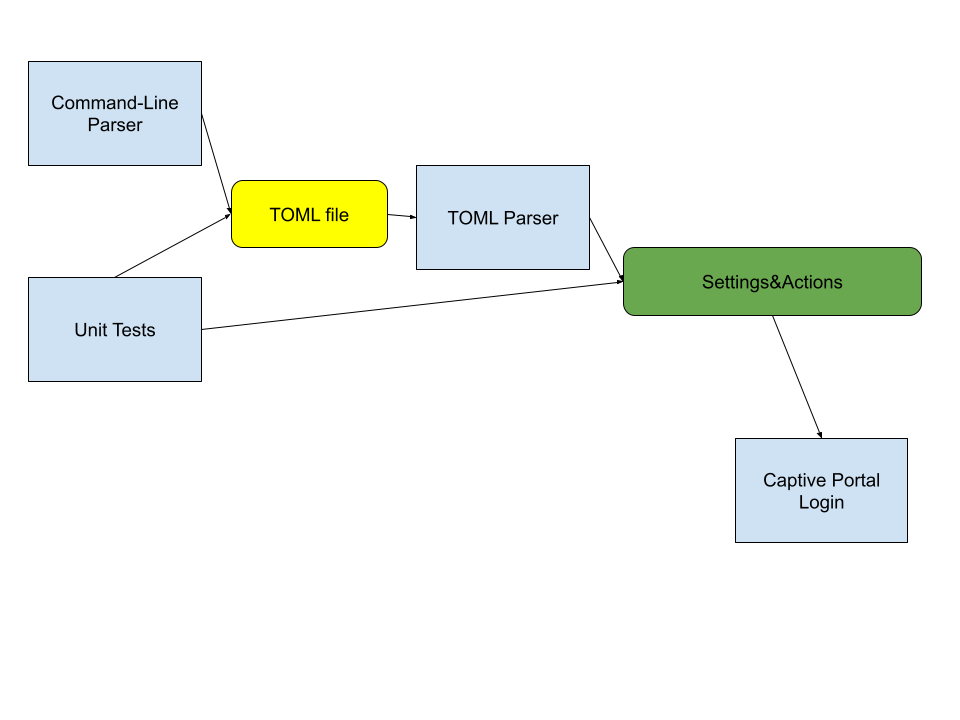
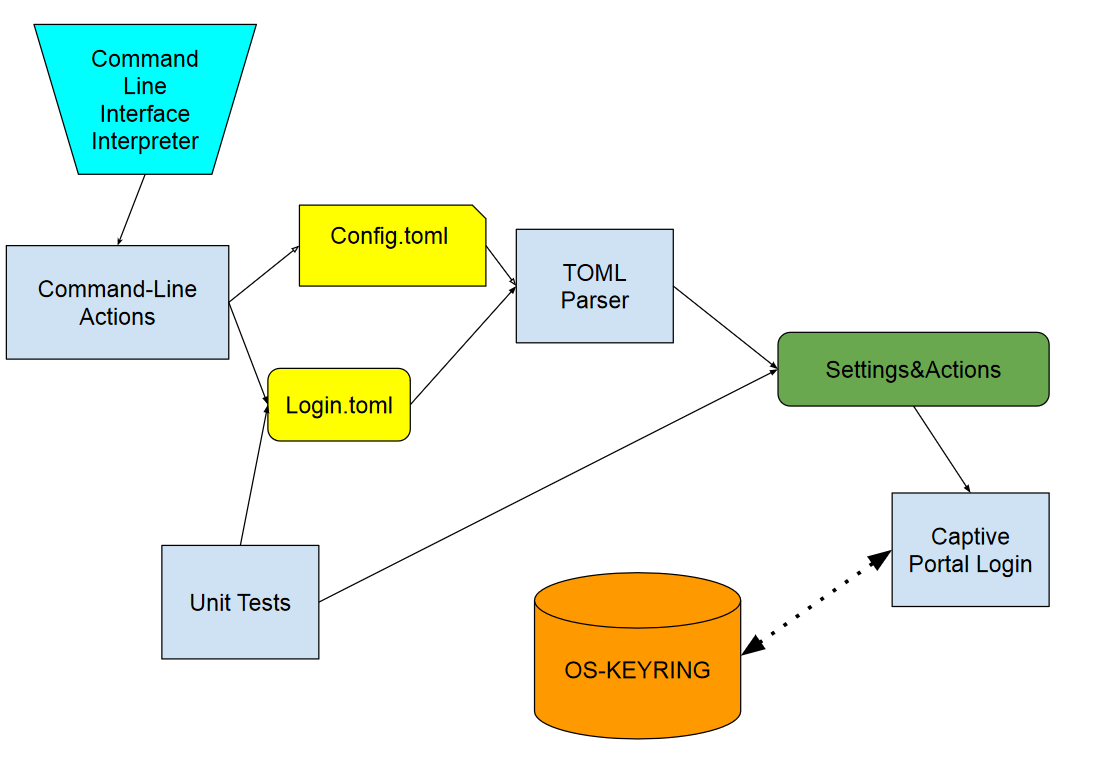
Changed the Output from Config from a dict to a NamedTuple in order to fit in with the rest of the parsers. New example file, that shows the currently planned config options. Changed the Architecture image to better reflect the plan. changed parsertest to reflect the changes from the former.

diff --git a/Captr/parser.py b/Captr/parser.py
@@ -1,14 +1,65 @@
 #Parses TOML files into digestible python variables and objects
 import tomllib as toml
-from typing import Optional, NamedTuple, Any
+from typing import Optional, NamedTuple, Any, Type, TypeVar
+
+#reads toml files allows for setting the given directory of the aforementioned toml file as well
+def TOMLRead(directory: str) -> dict:
+    """
+    Simple function that Opens Toml Files saves them to a variable and then returns whats in them
+    """
+    with open(directory, "rb") as stream:
+            try:
+                tml=toml.load(stream)
+            except UnicodeDecodeError as err:
+                print("ERROR: Your TOML File Appears to be corrupted or your pointing to the wrong file")
+                raise err
+            except toml.TOMLDecodeError:
+                raise toml.TOMLDecodeError("Your TOML File Appears to have Formatting Errors")
+            except FileNotFoundError:
+                raise FileNotFoundError("Cannot Find the File, Ensure the file path is correct and the file exits")
+    return tml
+
+#TODO: Replace with the new syntax once supported by mypy
+T=TypeVar("T", bound="Config")#Manual Type needed for Singleton 
 
 #Singleton Only one config can exist
 class Config():
+    """
+    Creates a Singleton object for the config file as only one config file can exist. 
+    Returns the config as a dictionary.
+    """
     _instance = None
-    def __new__(cls):
+    
+    def __new__(cls: Type[T], filepath: str) -> T:
+        """Enforces the Singleton Design Pattern"""
         if cls._instance is None:
             cls._instance= super(Config, cls).__new__(cls)
+        return cls._instance
     
+    def __init__(self, filepath: str="") -> None:
+        self.filepath = str(filepath)
+        self.tml=self.ConfParse()
+
+    class Ingest(NamedTuple):
+        """
+        Subclass of Config that defines a NamedTuple which is used for returning the values for the config.
+        """
+        logging: bool
+        safetyPrompt: bool
+        loginFilesDir: str #forward reference
+
+    def ConfParse(self) -> Ingest:
+        """
+        Ingests the configuration file and stores the variables, it is then output as a Ingest Named tuple. 
+        """
+        ConfigVars=["LoginFilesDir", "PromptForSafety", "Logging"]
+        tml=TOMLRead(self.filepath)
+        if all(x in ConfigVars for x in tml):
+            self.tml= self.Ingest(logging=tml["Logging"], loginFilesDir=tml["LoginFilesDir"], safetyPrompt=tml["PromptForSafety"])
+            return(self.tml)
+        else:
+            raise ValueError("Error, your CONFIG is MALFORMED")
+            
 
 
 class Action(NamedTuple):
@@ -33,7 +84,7 @@ class Action(NamedTuple):
 
 
 
-class TOMLparser():
+class LOGINparser():
     """
     TOML file parser that translates the content of a login-file into a easily digestible NamedTuple 
     This parser is specifically designed to interpret TOML files used for configuration into actionable objects based on the  
@@ -79,19 +130,19 @@ class TOMLparser():
     """
 
  
-    class LoginIngest(NamedTuple):
+    class Ingest(NamedTuple):
         """
         Subclass of TOMLparser that defines a NamedTuple which is used for returning the value of the class
         """
         Network: dict
-        Actions: list["TOMLparser.Action"] #forward reference
+        Actions: list[Action] #forward reference
 
 
 
     def __init__(self, filepath: str="") -> None:
         self.filepath = str(filepath)
         self.export = Optional[Any]
-        self.ingest=self._tomlparse()
+        self.ingest=self._loginparse()
     
     def __str__(self) -> str:
        return(
@@ -159,24 +210,14 @@ class TOMLparser():
             return(self.identifytest(action, self.t_identify_move))
         
     #parses the toml from a file
-    def _tomlparse(self) -> tuple:
+    def _loginparse(self) -> tuple:
         """
-        Internal Method used to orchestrate the parsing of the toml file.
+        Internal Method used to orchestrate the parsing of the login file.
         """
         #Valid Parent Keys for the toml
         vParent=['NETWORK', 'ACTION']
         #reads from a toml file
-        with open(self.filepath, "rb") as stream:
-            try:
-                tml=toml.load(stream)
-            except UnicodeDecodeError as err:
-                print("ERROR: Your TOML File Appears to be corrupted or your pointing to the wrong file")
-                raise err
-            except toml.TOMLDecodeError:
-                raise toml.TOMLDecodeError("Your TOML File Appears to have Formatting Error")
-            except FileNotFoundError:
-                raise FileNotFoundError("Cannot Find the File, Ensure the file path is correct and the file exits")
-
+        tml=TOMLRead(self.filepath)
         #checks if the TOML file contains the two main Dictionaries 
         if all(x in vParent for x in tml):
             net=tml['NETWORK']
@@ -208,17 +249,17 @@ class TOMLparser():
                         toDo.append(Action('move', {idtype : action[idtype]}))
                     case _:
                         raise ValueError(f"missing And/or invalid action in action#{place}")
-            self.export=self.LoginIngest(Network=net, Actions=toDo)
+            self.export=self.Ingest(Network=net, Actions=toDo)
             return self.export 
         else:
-            raise ValueError("Error, your either missing NETWORK or ACTION from your CONFIG")
+            raise ValueError("Error, your either missing NETWORK or ACTION from your LoginFile")
     
     def changeconfigfile(self,filepath: str="") -> None:
         """
         Changes the path of the set config file to the new path supplied AND parses it
         """
         self.filepath=filepath
-        self.ingest=self._tomlparse()
+        self.ingest=self._loginparse()
 
     def result(self) -> object:
         '''
@@ -226,5 +267,7 @@ class TOMLparser():
         '''
         return self.export
 
-# v=TOMLparser(r"EXAMPLE.toml")
-# print(v.result())
+v=LOGINparser(r"EXAMPLE.toml")
+print(v.result())
+t=Config(r"exCONFIG.toml")
+print(t.tml)

diff --git a/tests/parsertest.py b/tests/parsertest.py
@@ -1,24 +1,24 @@
 import pytest
 from tomllib import TOMLDecodeError
 from typing import NamedTuple
-from Captr.parser import TOMLparser
+from Captr.parser import LOGINparser
 
 #checks to see if the fuctionality of the class is intact
-print(((TOMLparser(r"EXAMPLE.toml")).export))
-# assert(str((TOMLparser(r"EXAMPLE.toml")).result())=="Ingest(Network={'SSID': 'examplewifi', 'URL': 'https://example.com', 'IP': '1.0.0.1'}, Actions=[Action(type='click', id={'id': 'example'}, value=None), Action(type='click', id={'x-path': '/html/body/div/div/main/div/p[81]'}, value=None), Action(type='click', id={'name': 'examplename'}, value=None), Action(type='click', id={'type': 'checkbox'}, value=None), Action(type='wait', id=None, value={'wait': 30}), Action(type='text', id={'name': 'name'}, value=None), Action(type='text', id={'name': 'name'}, value={'value': 'examplestringEGUserName'}), Action(type='text', id={'name': 'password'}, value={'keyring': ['YourUserName']}), Action(type='move', id={'href': 'href_url'}, value=None), Action(type='move', id={'id': 'ID'}, value=None)])")
+print(((LOGINparser(r"EXAMPLE.toml")).export))
+assert(str((LOGINparser(r"EXAMPLE.toml")).result())=="Ingest(Network={'SSID': 'examplewifi', 'URL': 'https://example.com', 'IP': '1.0.0.1'}, Actions=[Action(type='click', id={'id': 'example'}, value=None), Action(type='click', id={'x-path': '/html/body/div/div/main/div/p[81]'}, value=None), Action(type='click', id={'name': 'examplename'}, value=None), Action(type='click', id={'type': 'checkbox'}, value=None), Action(type='wait', id=None, value={'wait': 30}), Action(type='text', id={'name': 'name'}, value=None), Action(type='text', id={'name': 'name'}, value={'value': 'examplestringEGUserName'}), Action(type='text', id={'name': 'password'}, value={'keyring': ['YourUserName']}), Action(type='move', id={'href': 'href_url'}, value=None), Action(type='move', id={'id': 'ID'}, value=None)])")
 # assert(repr(TOMLparser(r"EXAMPLE.toml"))=="Network:{'SSID': 'examplewifi', 'URL': 'https://example.com', 'IP': '1.0.0.1'}, Actions[Action(type='click', id={'id': 'example'}, value=None), Action(type='click', id={'x-path': '/html/body/div/div/main/div/p[81]'}, value=None), Action(type='click', id={'name': 'examplename'}, value=None), Action(type='click', id={'type': 'checkbox'}, value=None), Action(type='wait', id=None, value={'wait': 30}), Action(type='text', id={'name': 'name'}, value=None), Action(type='text', id={'name': 'name'}, value={'value': 'examplestringEGUserName'}), Action(type='text', id={'name': 'password'}, value={'keyring': ['YourUserName']}), Action(type='move', id={'href': 'href_url'}, value=None), Action(type='move', id={'id': 'ID'}, value=None)]")
 # assert(str(TOMLparser(r"EXAMPLE.toml").export)=="Ingest(Network={'SSID': 'examplewifi', 'URL': 'https://example.com', 'IP': '1.0.0.1'}, Actions=[Action(type='click', id={'id': 'example'}, value=None), Action(type='click', id={'x-path': '/html/body/div/div/main/div/p[81]'}, value=None), Action(type='click', id={'name': 'examplename'}, value=None), Action(type='click', id={'type': 'checkbox'}, value=None), Action(type='wait', id=None, value={'wait': 30}), Action(type='text', id={'name': 'name'}, value=None), Action(type='text', id={'name': 'name'}, value={'value': 'examplestringEGUserName'}), Action(type='text', id={'name': 'password'}, value={'keyring': ['YourUserName']}), Action(type='move', id={'href': 'href_url'}, value=None), Action(type='move', id={'id': 'ID'}, value=None)])")
 
 
-# #tests to see if the error checking is working
-# def  test_Bad_Login_Files():
-#     with pytest.raises(UnicodeDecodeError):
-#         TOMLparser(r"./TestingFiles/CORRUPTED_TOML")
-#     with pytest.raises(ValueError):
-#         TOMLparser(r"./TestingFiles/BADLOGIN.toml")
-#     with pytest.raises(ValueError):
-#         TOMLparser(r"./TestingFiles/BADLOGIN_2.toml")
-#     with pytest.raises(ValueError):
-#         TOMLparser(r"./TestingFiles/BADLOGIN_3.toml")
-#     with pytest.raises(TOMLDecodeError):
-#         TOMLparser(r"./TestingFiles/BAD_TOML.toml")
+#tests to see if the error checking is workin
+def  test_Bad_Login_Files():
+    with pytest.raises(UnicodeDecodeError):
+        LOGINparser(r"./TestingFiles/CORRUPTED_TOML")
+    with pytest.raises(ValueError):
+        LOGINparser(r"./TestingFiles/BADLOGIN.toml")
+    with pytest.raises(ValueError):
+        LOGINparser(r"./TestingFiles/BADLOGIN_2.toml")
+    with pytest.raises(ValueError):
+        LOGINparser(r"./TestingFiles/BADLOGIN_3.toml")
+    with pytest.raises(TOMLDecodeError):
+        LOGINparser(r"./TestingFiles/BAD_TOML.toml")
